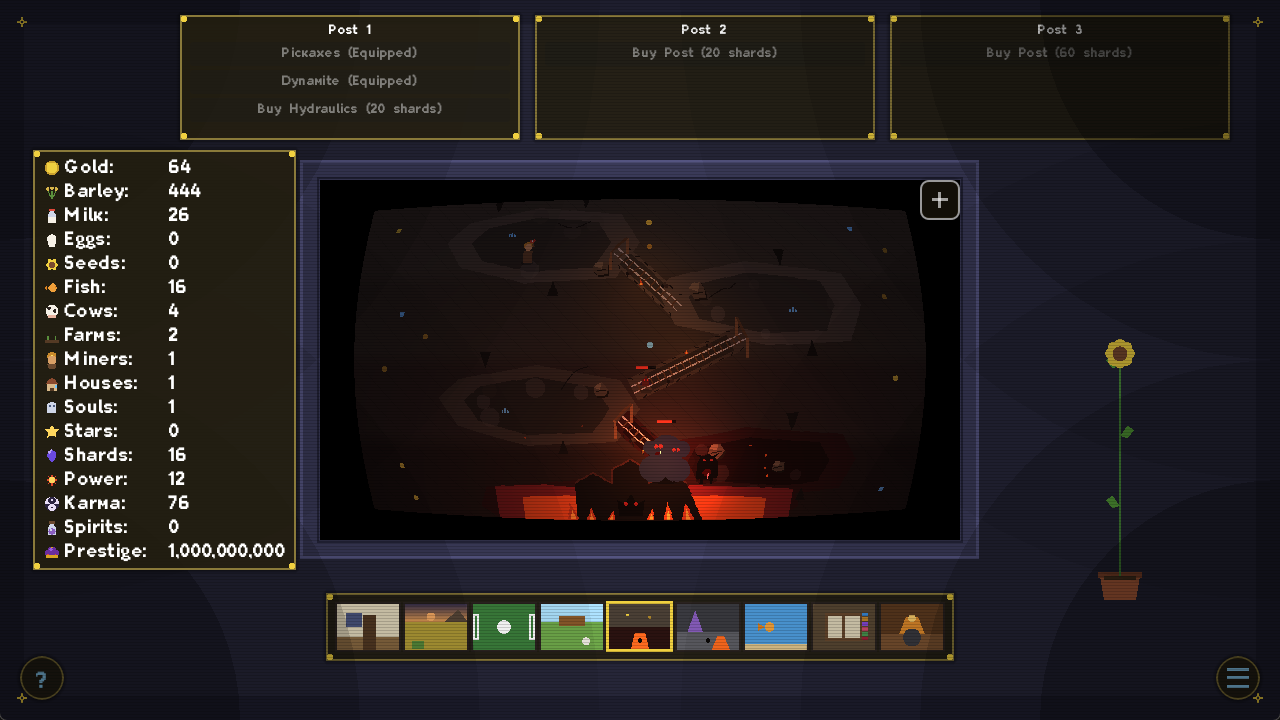
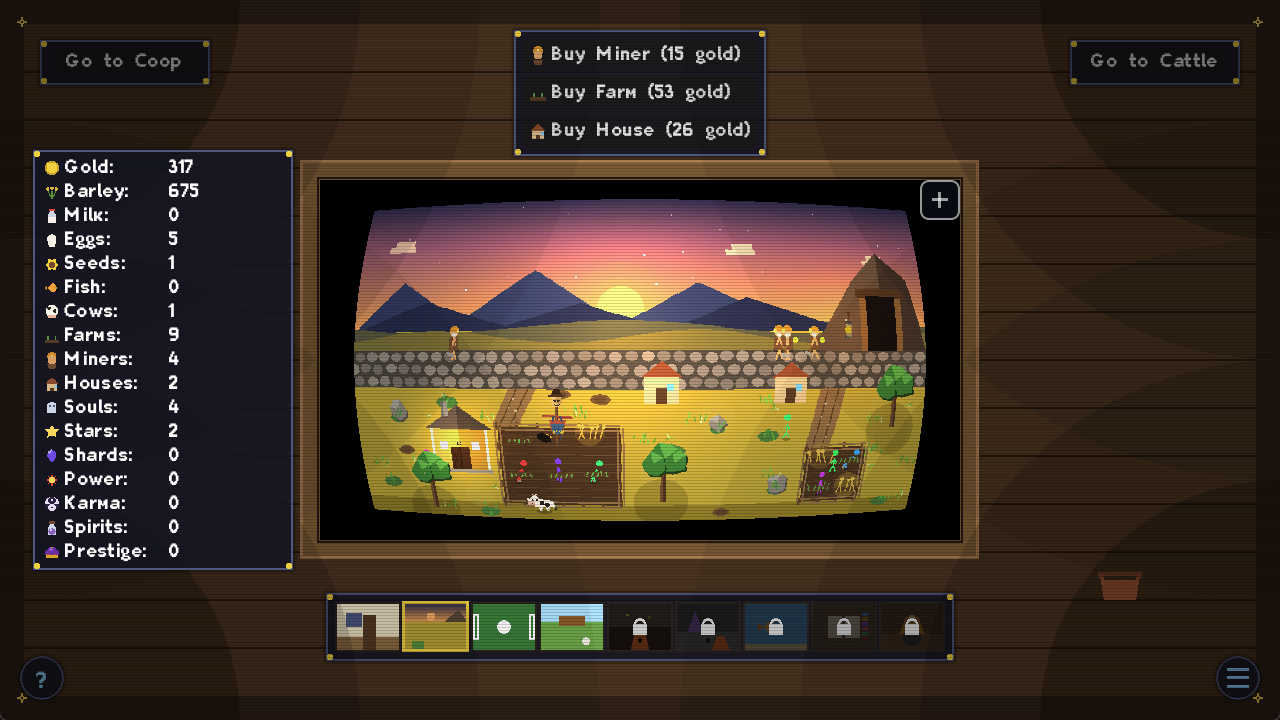
Update screenshots to 2x2 gallery with 4 in-game captures
Replaces the 2-image screenshot section with 4 fresh captures (homestead progression, Dark Mine, prestige tree) and forces a strict 2x2 grid layout instead of auto-fit.

diff --git a/index.html b/index.html
@@ -60,8 +60,10 @@
       <div class="wrap">
         <h3>Screenshots</h3>
         <div class="screenshot-grid">
-          <img src="assets/screenshots/screenshot-1.png" alt="Miners, Moos &amp; Miracles homestead view" loading="lazy" />
-          <img src="assets/screenshots/screenshot-2.png" alt="Miners, Moos &amp; Miracles Dark Mine mini-game" loading="lazy" />
+          <img src="assets/screenshots/screenshot-1.png" alt="Miners, Moos &amp; Miracles homestead view at dusk" loading="lazy" />
+          <img src="assets/screenshots/screenshot-2.png" alt="Miners, Moos &amp; Miracles growing homestead with houses and farms" loading="lazy" />
+          <img src="assets/screenshots/screenshot-3.png" alt="Miners, Moos &amp; Miracles Dark Mine mini-game" loading="lazy" />
+          <img src="assets/screenshots/screenshot-4.png" alt="Miners, Moos &amp; Miracles prestige skill tree" loading="lazy" />
         </div>
       </div>
     </section>

diff --git a/style.css b/style.css
@@ -261,7 +261,7 @@ h1, h2, h3 { line-height: 1.15; margin: 0 0 0.75rem; }
 .screenshot-grid {
   margin-top: 2rem;
   display: grid;
-  grid-template-columns: repeat(auto-fit, minmax(280px, 1fr));
+  grid-template-columns: repeat(2, 1fr);
   gap: 1.25rem;
 }
 .screenshot-grid img {
@@ -309,4 +309,5 @@ h1, h2, h3 { line-height: 1.15; margin: 0 0 0.75rem; }
 /* Mobile */
 @media (max-width: 640px) {
   .nav { order: 3; width: 100%; justify-content: center; gap: 1rem; }
+  .screenshot-grid { grid-template-columns: 1fr; }
 }